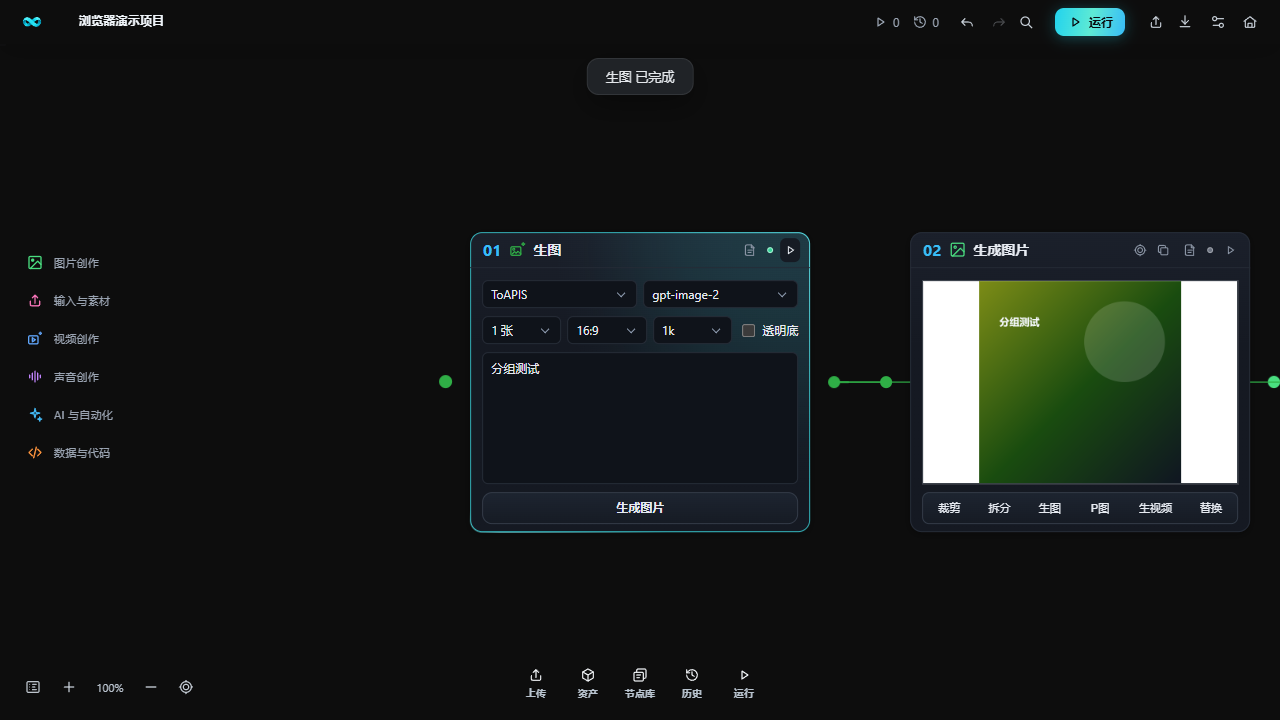
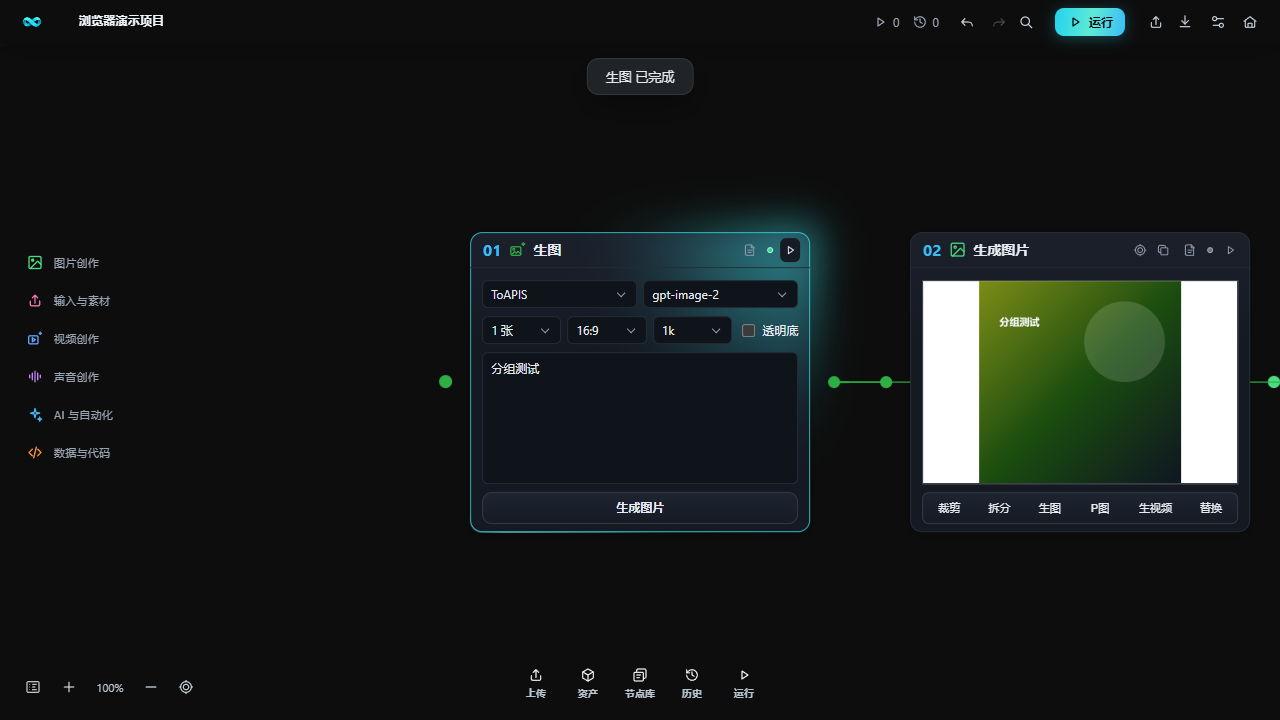
柔化悬浮光：单一模糊光斑、去掉边缘硬环
用户反馈"中心看着不明显、外部还是一圈一圈的线条，不够柔和"。原因是：
多段色标在深色底上仍形成可见的量化台阶（同心线），1px 边缘光又沿卡边画出一道
硬环，叠加 hover 的双层阴影，整体呈现"圈线"感。

- 悬浮面光改为单一柔光斑：中心 0.5 → 0.42/0.28/0.12/0.03 连续衰减到 0，
  半径取 0.85×面光半径（随卡尺寸变化）；
- 整层加 filter: blur(0.07×面光半径)（340×300 节点约 18px），把色标接缝与
  8-bit 量化台阶一起抹平，中心明显、外部自然变暗；
- 删除 1px 边缘光硬环（::after 不再绘制），柔光可自然溢出卡边；
- hover 阴影收敛为单层 0 14px 40px rgba(0,0,0,.30)，外轮廓只轻微提亮到 #2f3541，
  避免卡边出现第二、第三道线圈；
- 浏览器用例补断言：悬浮柔光可见 + ::before 含 blur + ::after 无边缘环。

验证：typecheck/生产构建通过；canvas-interaction、ui-foundation 单测通过；
node-refinements、node-visual-system 与完整优化 UI 浏览器门禁通过；
指针移动实测 60fps（avg 16.62ms / max 16.8ms，无掉帧）。

Changed region(s): [[0.5312, 0.275, 0.6562, 0.4889]]

diff --git a/src/renderer/src/canvas/node-interaction-refinement.css b/src/renderer/src/canvas/node-interaction-refinement.css
@@ -110,23 +110,29 @@
 .canvas-page .node-hover-spot {
   z-index: 0;
   opacity: 0;
-  /* 2026-11-06 平滑接续：(1 - r²)² 超高斯衰减，多段色标避免 42%/72% 两处斜率突变
-     在暗底上形成可见的同心环带（Mach band）；光在卡片边界内自然衰减到 0。 */
+  transition: opacity 340ms ease;
+}
+/* 2026-11-06 三次修订（用户反馈"中心不明显、外面还是一圈一圈"）：
+   改为单一柔光斑——中心更亮、向外按一段连续曲线衰减；整层再做模糊，把 8-bit
+   量化台阶与色标接缝一并抹平；不再叠加 1px 边缘光硬环，避免"圈线"感。 */
+.canvas-page .node-hover-spot::before {
+  content: '';
+  position: absolute;
+  inset: -10px;
+  border-radius: inherit;
   background: radial-gradient(
-    var(--node-spot-radius, 260px) circle at var(--node-mouse-x, 50%) var(--node-mouse-y, 50%),
-    rgb(60 221 227 / 14%) 0%,
-    rgb(60 221 227 / 13.86%) 10%,
-    rgb(60 221 227 / 13.37%) 20%,
-    rgb(60 221 227 / 12.47%) 30%,
-    rgb(60 221 227 / 10.98%) 40%,
-    rgb(60 221 227 / 8.86%) 50%,
-    rgb(60 221 227 / 6.27%) 60%,
-    rgb(60 221 227 / 3.49%) 70%,
-    rgb(60 221 227 / 1.24%) 80%,
-    rgb(60 221 227 / 0.15%) 90%,
+    calc(var(--node-spot-radius, 260px) * .85) circle at var(--node-mouse-x, 50%) var(--node-mouse-y, 50%),
+    rgb(60 221 227 / 50%) 0%,
+    rgb(60 221 227 / 42%) 18%,
+    rgb(60 221 227 / 28%) 40%,
+    rgb(60 221 227 / 12%) 64%,
+    rgb(60 221 227 / 3%) 84%,
     transparent 100%
   );
-  transition: opacity 280ms ease;
+  filter: blur(calc(var(--node-spot-radius, 260px) * .07));
+}
+.canvas-page .node-hover-spot::after {
+  content: none;
 }
 @media (hover: hover) and (pointer: fine) {
   .canvas-page .node-card-wrap:hover:not(:has(.port-dot:hover)) .node-hover-spot {
@@ -196,26 +202,10 @@
   overflow-wrap: anywhere;
 }
 
+/* 2026-11-06 三次修订：不再绘制 1px 边缘光硬环（用户反馈有"圈线"），
+   卡边只保留柔光溢出；需要边缘提亮时由柔光斑自身的衰减承担。 */
 .canvas-page .node-hover-spot::after {
-  content: '';
-  position: absolute;
-  inset: 0;
-  padding: 1px;
-  border-radius: inherit;
-  /* 边缘光沿卡边平滑衰减，避免在 62% 处突然截断形成第二道环。 */
-  background: radial-gradient(
-    calc(var(--node-spot-radius, 260px) * .72) circle at var(--node-mouse-x, 50%) var(--node-mouse-y, 50%),
-    rgb(120 232 238 / 50%) 0%,
-    rgb(120 232 238 / 42%) 25%,
-    rgb(120 232 238 / 26%) 50%,
-    rgb(120 232 238 / 12%) 72%,
-    rgb(120 232 238 / 3%) 90%,
-    transparent 100%
-  );
-  mask:
-    linear-gradient(#000 0 0) content-box,
-    linear-gradient(#000 0 0);
-  mask-composite: exclude;
+  content: none;
 }
 .canvas-page.canvas-theme-light
   .node-card-wrap

diff --git a/src/renderer/src/canvas/node-visual-system.css b/src/renderer/src/canvas/node-visual-system.css
@@ -61,8 +61,8 @@
 
   .canvas-page .node-card-wrap:not(.is-selected):hover:not(:active):not(:has(.port-dot:hover)) {
     --node-hover-lift: -3px;
-    outline-color: var(--node-edge-hover);
-    box-shadow: 0 6px 18px rgb(0 0 0 / 45%), 0 2px 6px rgb(0 0 0 / 30%);
+    outline-color: #2f3541;
+    box-shadow: 0 14px 40px rgb(0 0 0 / 30%);
   }
 
   .canvas-page .node-card-wrap > .port-dot {
